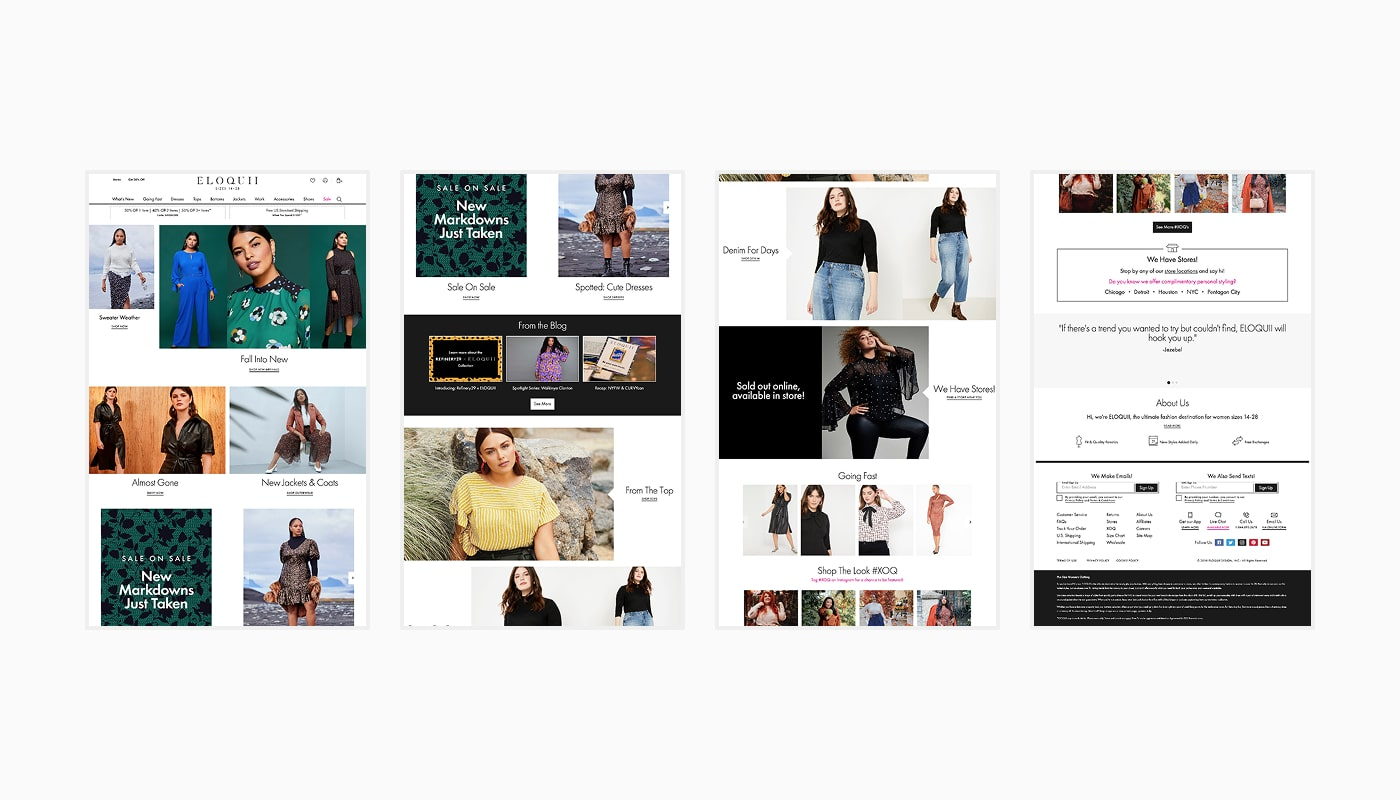
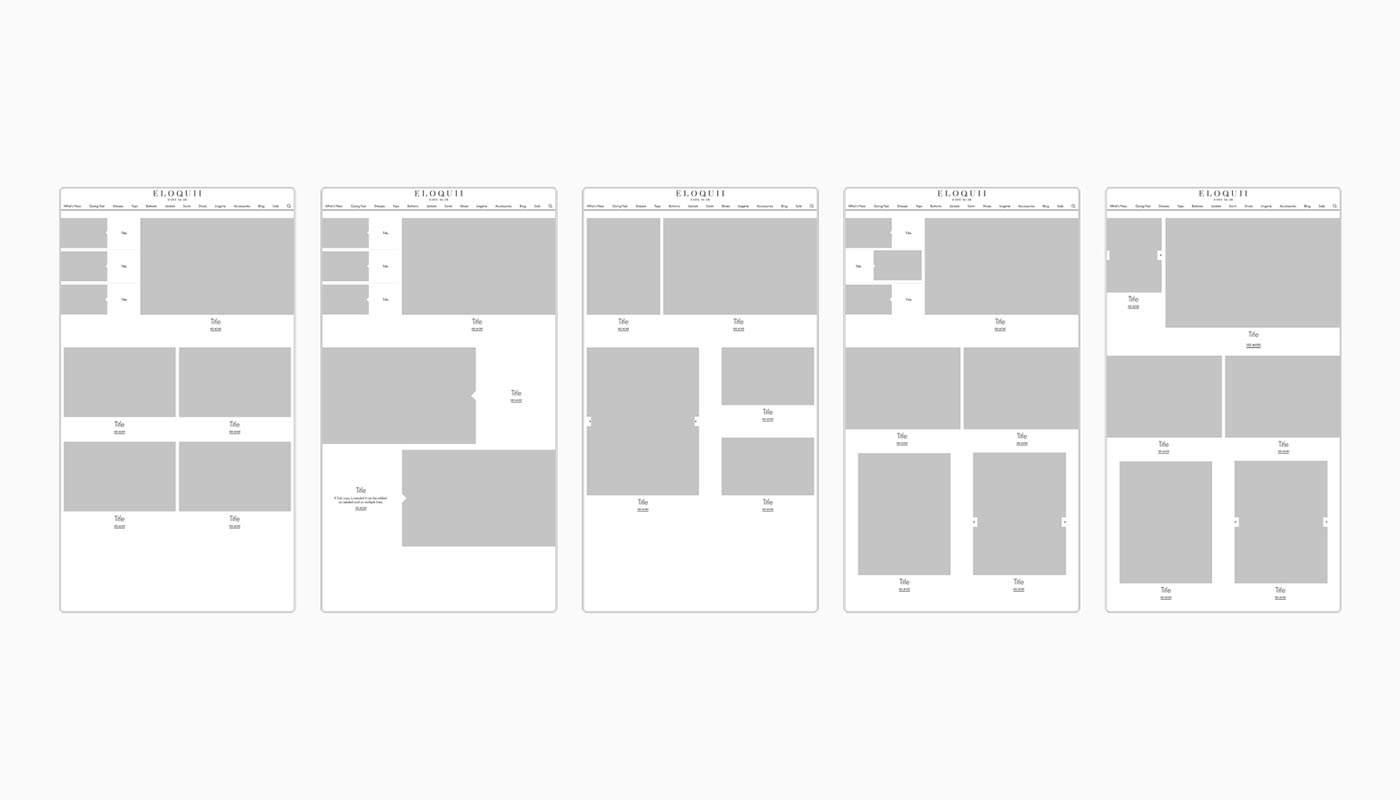
Update portfolio details with new images and content for Eloquii, Kikoff, Loca, Rankbee, and Sourceability projects

diff --git a/detail-sourceability.html b/detail-sourceability.html
@@ -58,10 +58,42 @@
         <h1 class="hero-title">Sourceability RFQ</h1>
       </section>
 
+      <section class="detail-two-col-section">
+        <div class="detail-two-col-col">
+          <div class="detail-two-col-heading">About:</div>
+          <div class="detail-two-col-text">Sourceability is a global electronic component distributor.</div>
+          <div class="detail-two-col-heading">Hats Worn:</div>
+          <div class="detail-two-col-pills">
+            <span class="detail-two-col-pill">Design</span>
+          </div>
+        </div>
+        <div class="detail-two-col-col">
+          <div class="detail-two-col-row">
+            <div>
+              <div class="detail-two-col-heading">My Role:</div>
+              <div class="detail-two-col-text">UX/UI Lead</div>
+            </div>
+            <div>
+              <div class="detail-two-col-heading">Project Year:</div>
+              <div class="detail-two-col-text">2021</div>
+            </div>
+            <div>
+              <div class="detail-two-col-heading">Business:</div>
+              <div class="detail-two-col-text">Early Stage</div>
+            </div>
+          </div>
+          <div class="detail-two-col-heading">External Links &#8599;</div>
+          <div class="detail-two-col-links">
+            <a href="https://sourceability.com" class="detail-two-col-link" target="_blank" rel="noopener">Sourceability</a>
+
+          </div>
+        </div>
+      </section>
+
+
       <section class="work">
         <!-- Content -->
         <div class="detail-content">
-          <p class="detail-text">Sourceability allows customers to operate in and navigate the electronic component market.</p>
           <h2>The Problem</h2>
           <p class="detail-text">Users without an account are bouncing at login after submitting a Request for Quote (RFQ) from the PDP.</p>
 
@@ -132,7 +164,7 @@
           <h2>Business Impact</h2>
           <p class="detail-text">This project was passed off for development and I left the company shortly afterwards. The expectation was a significant and immediate business impact in regards to RFQ's.</p>
 
-          <section class="project-info-section">
+          <!--ection class="project-info-section">
             <div class="project-info-item">
               <span class="project-info-label">Project Duration:</span>
               <span class="project-info-tag">1 Month</span>
@@ -147,14 +179,8 @@
               <span class="project-info-tag">Matt Wester - Product Manager</span>
               <span class="project-info-tag">Allie Johnston - Analytics</span>
             </div>
-          </section>
+          </section-->
 
-          <section class="capabilities detail-external-links">
-            <h2>External Links &#8599;</h2>
-            <div class="capabilities-grid">
-              <a href="https://sourceability.com" target="_blank" class="capability-tag external-link">Sourceability</a>
-            </div>
-          </section>
         </div>
       </section>
     </main>

diff --git a/detail-loca.html b/detail-loca.html
@@ -124,7 +124,6 @@
               <img src="images/detail-loca-3.jpg" alt="Mobile phone scanning LoCA QR code next to artwork in venue">
             </div>
 
-            <h3 class="with-arrow">Home Page Iteration ↓</h3>
             <div class="detail-image" data-aos="fade-up">
               <img src="images/detail-loca-4.jpg" alt="Mobile phone scanning LoCA QR code next to artwork in venue">
             </div>
@@ -144,14 +143,32 @@
             <img src="images/detail-loca-7.jpg" alt="User onboarding flow for new LoCA platform users">
           </div>
 
+          <h3 class="with-arrow">Onboarding ↓</h3>
+          <div class="detail-image" data-aos="fade-up">
+            <img src="images/detail-loca-7b.jpg" alt="User onboarding flow for new LoCA platform users">
+          </div>
+
           <h3 class="with-arrow">Artist Page ↓</h3>
           <div class="detail-image" data-aos="fade-up">
             <img src="images/detail-loca-8.jpg" alt="Revised onboarding experience with simplified registration steps">
+          </div>
+          <div class="detail-image" data-aos="fade-up">
+            <img src="images/detail-loca-8b.jpg" alt="Revised onboarding experience with simplified registration steps">
           </div>
 
           <h3 class="with-arrow">Product Page ↓</h3>
           <div class="detail-image" data-aos="fade-up">
             <img src="images/detail-loca-9.jpg" alt="Revised onboarding experience with simplified registration steps">
+          </div>
+
+          <h3 class="with-arrow">Backend ↓</h3>
+          <div class="detail-image" data-aos="fade-up">
+            <img src="images/detail-loca-10.jpg" alt="Revised onboarding experience with simplified registration steps">
+          </div>
+
+          <h3 class="with-arrow">Artist <> Venue Communication ↓</h3>
+          <div class="detail-image" data-aos="fade-up">
+            <img src="images/detail-loca-11.jpg" alt="Revised onboarding experience with simplified registration steps">
           </div>
 
           <!--section class="project-info-section">

diff --git a/detail-eloquii.html b/detail-eloquii.html
@@ -130,9 +130,20 @@
           </ul>
 
           <h2>Refinements</h2>
+          <p class="detail-text">Implementation of a flexible homepage that accounts for layout changes to maximize photo assets, provide newness for repeat customers, and mark differentiation for event days.</p>
+
           <h3 class="with-arrow">After - Homepage ↓</h3>
           <div class="detail-image" data-aos="fade-up">
             <img src="images/detail-eloquii-3.jpg" alt="Final Eloquii homepage redesign with improved content modules and visual hierarchy">
+          </div>
+          <div class="detail-image" data-aos="fade-up">
+            <img src="images/detail-eloquii-3b.jpg" alt="Final Eloquii homepage redesign with improved content modules and visual hierarchy">
+          </div>
+          <div class="detail-image" data-aos="fade-up">
+            <img src="images/detail-eloquii-3c.jpg" alt="Final Eloquii homepage redesign with improved content modules and visual hierarchy">
+          </div>
+          <div class="detail-image" data-aos="fade-up">
+            <img src="images/detail-eloquii-3d.jpg" alt="Final Eloquii homepage redesign with improved content modules and visual hierarchy">
           </div>
 
           <p class="detail-text">To better illustrate categories and put business highlighted product out front with a direct click-through, flexible images slots were introduced within a new drop-down desktop nav. The slots can hold one horizontal image or 3 vertical.</p>

diff --git a/detail-rankbee.html b/detail-rankbee.html
@@ -102,14 +102,14 @@
             <img src="images/detail-rb-2.jpg" alt="RankBee user onboarding flow with multiple setup screens">
           </div>
 
-          <h3 class="with-arrow">Misc marketing ↓</h3>
-          <div class="detail-image" data-aos="fade-up">
-            <img src="images/detail-rb-3.jpg" alt="RankBee dashboard overview with performance metrics and data visualization">
-          </div>
-
           <h3 class="with-arrow">Misc AI agent interaction ↓</h3>
           <div class="detail-image" data-aos="fade-up">
             <img src="images/detail-rb-4.jpg" alt="RankBee detailed analytics page with in-depth performance metrics">
+          </div>
+
+          <h3 class="with-arrow">Misc marketing ↓</h3>
+          <div class="detail-image" data-aos="fade-up">
+            <img src="images/detail-rb-3.jpg" alt="RankBee dashboard overview with performance metrics and data visualization">
           </div>
 
           <p class="detail-text">More to come later...</p>

diff --git a/detail-kikoff.html b/detail-kikoff.html
@@ -122,7 +122,13 @@
 
           <h3 class="with-arrow">Initial Ideas ↓</h3>
           <div class="detail-image" data-aos="fade-up">
-            <img src="images/detail-kikoff-2.jpg" alt="Kikoff chatbot interface mockup for financial advice">
+            <img src="images/detail-kikoff-1.jpg" alt="Kikoff chatbot interface mockup for financial advice">
+          </div>
+          <div class="detail-image" data-aos="fade-up">
+            <img src="images/detail-kikoff-1b.jpg" alt="Kikoff chatbot interface mockup for financial advice">
+          </div>
+          <div class="detail-image" data-aos="fade-up">
+            <img src="images/detail-kikoff-1c.jpg" alt="Kikoff chatbot interface mockup for financial advice">
           </div>
           <div class="detail-image" data-aos="fade-up">
             <img src="images/detail-kikoff-2.jpg" alt="Kikoff financial education course selection screen">
